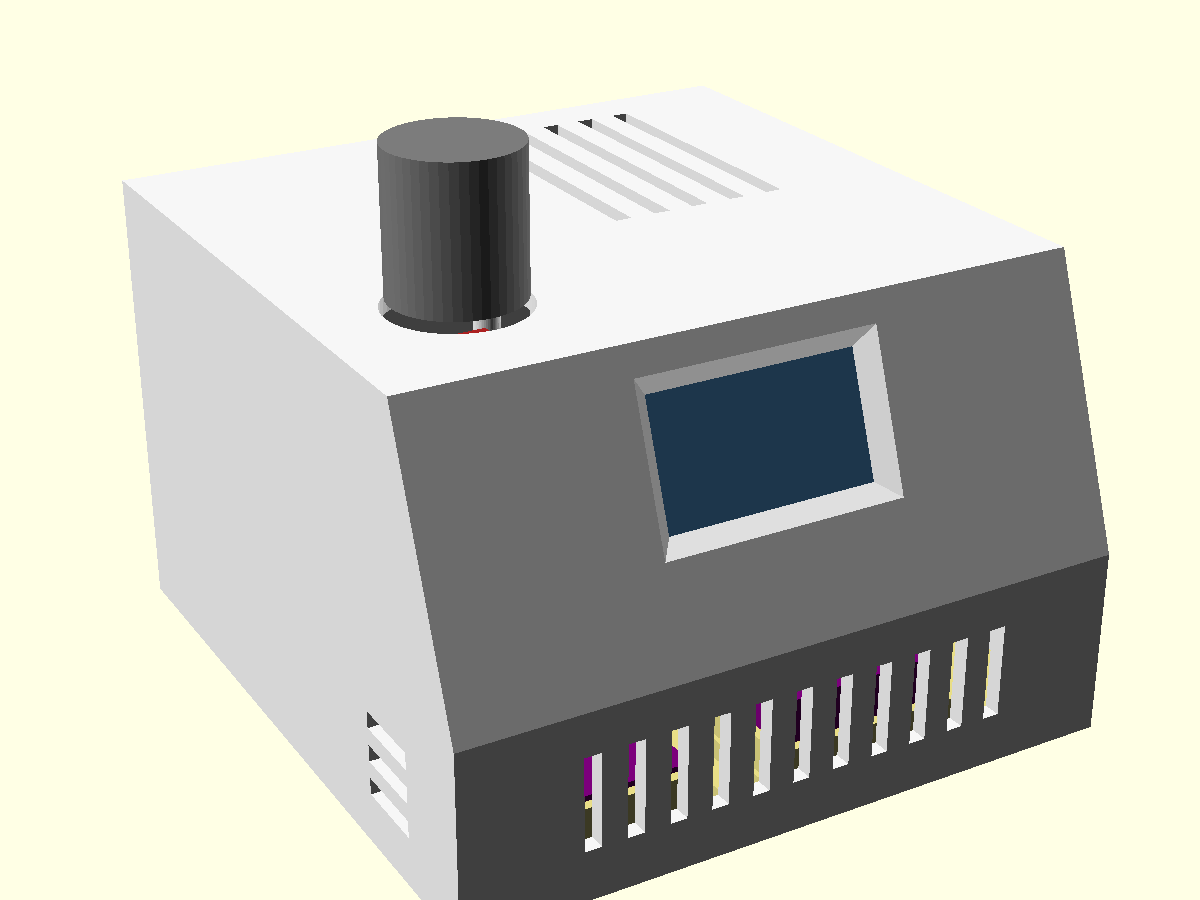
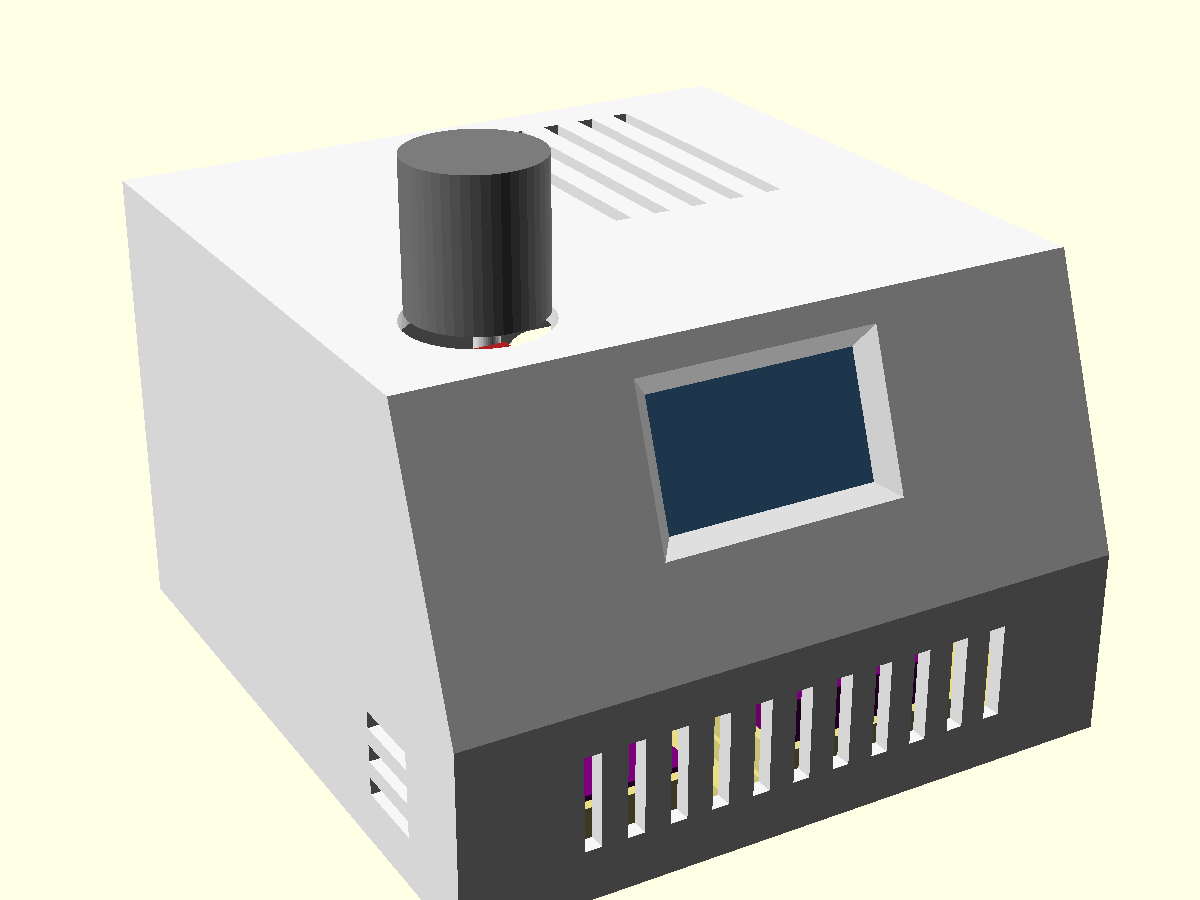
Enclosure: KY-040 shaft position measured (~8.6 mm from the end without pins)

Changed region(s): [[0.3083, 0.1244, 0.4625, 0.4044]]

diff --git a/ROADMAP.md b/ROADMAP.md
@@ -239,14 +239,14 @@ WiFi connect timeout: done 2026-09-25, see Open questions in `CLAUDE.md`.
     pin order, **GND, 3V3, SDA, SCL**; the cables do the per-module swap.
     I2C cables < ~20 cm. Board outline and holes match the case's posts.
     A KiCad/JLCPCB version only if the perfboard one proves the layout.
-  - **Next session starts here**: measure the KY-040 shaft position, set
-    `ky_shaft_y` in `enclosure/enclosure.scad`, run `enclosure/export.sh`,
-    send `stl/test_front.stl` to the person printing it.
+  - **Next session starts here**: run `enclosure/export.sh` and send
+    `stl/test_front.stl` to the person printing it (ask them PLA/PETG and
+    their clearance); then the checklist in `enclosure/README.md`.
   - Steps: [x] measure every part (`enclosure/MEASUREMENTS.md`, 2026-09-28)
     -> [x] OpenSCAD model + preview renders (`enclosure/`, see its README;
     2026-09-28: 80 x 84 x 54 mm, knob on top, OLED held by clamp bars, the
-    carrier is 60 x 40 mm) -> [ ] measure the KY-040 shaft position
-    (`ky_shaft_y`, assumed as the middle) -> [ ] test
+    carrier is 60 x 40 mm) -> [x] KY-040 shaft position (~8.6 mm from
+    the end away from the pins, not the middle) -> [ ] test
     print of the front panel only (`test_front` STL: OLED window, knob mount) -> [ ] full print
     -> [ ] perfboard layout on a grid, solder -> [ ] assemble, then compare
     BME280 with a reference thermometer with the case open vs closed.

diff --git a/enclosure/MEASUREMENTS.md b/enclosure/MEASUREMENTS.md
@@ -25,6 +25,7 @@ OpenSCAD model is written from these numbers, not from datasheet guesses.
 - Design choice (2026-09-28): the knob **cap** sticks out through a round hole in the case and the KY-040 board sits on posts behind the panel, so shaft/collar sizes aren't needed (standard EC11: 6 mm shaft, M7 collar, if ever)
 - Board bottom to top of the cap (cap on): 31.79
 - Board bottom to the lower edge of the cap: 15.58 (the panel has to sit below this), so the cap itself is ~16.2 tall
+- Shaft position: board's short edge away from the pins to the cap's far side ~16 (2026-09-28; hard to hold straight since the cap is higher than the board, +-1), so the shaft centre is ~8.6 from that edge, not the middle. Precise enough: the 16 mm top hole only has to clear the ~7 mm collar
 - Knob cap diameter: 14.78 (panel hole ~16, so it turns freely) (black knurled aluminium cap, seller image in the chat 2026-09-28)
 
 ## DS3231 RTC

diff --git a/enclosure/README.md b/enclosure/README.md
@@ -67,14 +67,8 @@ clearance in the model is 0.3 mm (`clr`): ask the person printing it.
 
 ## Assumed, not measured
 
-Marked `ASSUMED` in `enclosure.scad`. The one that matters before the test
-print:
-
-- **KY-040 shaft position** (`ky_shaft_y`): distance from the shaft centre
-  to the board's short edge *away from the pins*. The model assumes the
-  middle, 13.1 mm. If it's wrong, the knob hole won't line up.
-
-Others (the test print shows whether they're right): the OLED lit area's
+Marked `ASSUMED` in `enclosure.scad`; the test print shows whether they're
+right: the OLED lit area's
 position (±0.5 from a photo), the EC11 body size, the ESP32/KY-040 PCB
 thickness (1.6), and the female header height (8.5).
 
